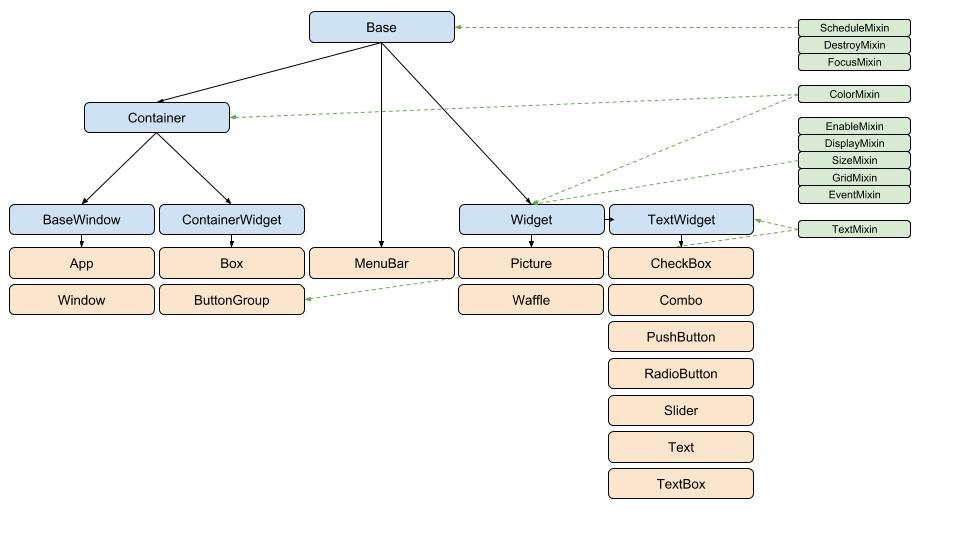
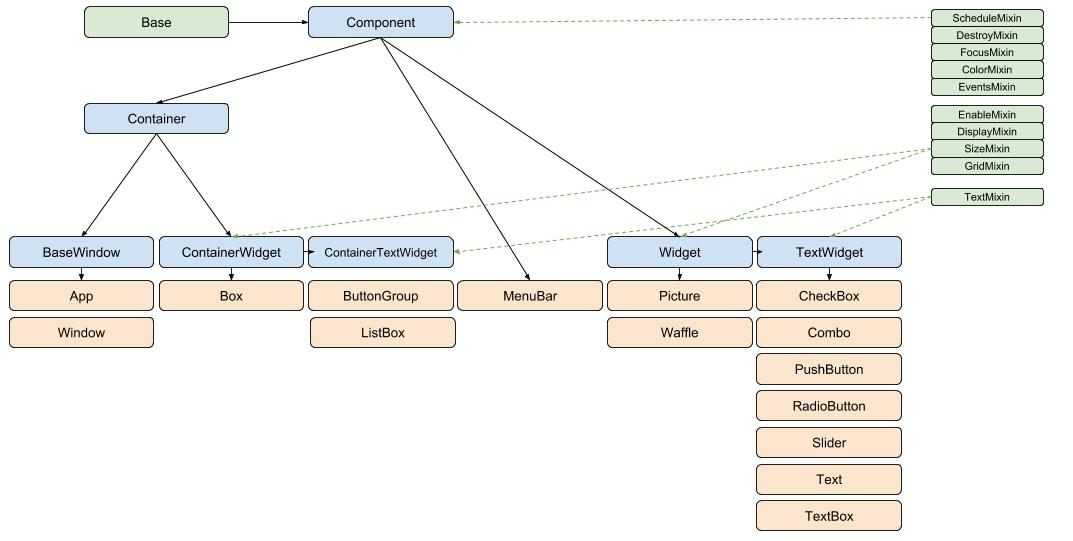
refactored class hierarchy

diff --git a/guizero/base.py b/guizero/base.py
@@ -85,7 +85,9 @@ class Component(
     Base,
     ScheduleMixin,
     DestroyMixin,
-    FocusMixin):
+    FocusMixin,
+    ColorMixin,
+    EventsMixin):
 
     def __init__(self, master, tk, description):
         """
@@ -143,7 +145,7 @@ class Component(
         self.tk.destroy()
 
 
-class Container(Component, ColorMixin, EventsMixin):
+class Container(Component):
 
     def __init__(self, master, tk, description, layout):
         """
@@ -406,10 +408,8 @@ class Widget(
     Component,
     EnableMixin, 
     DisplayMixin, 
-    ColorMixin,
     SizeMixin,
-    GridMixin,
-    EventsMixin):
+    GridMixin):
 
     def __init__(self, master, tk, description, grid, align, visible, enabled):
         """
